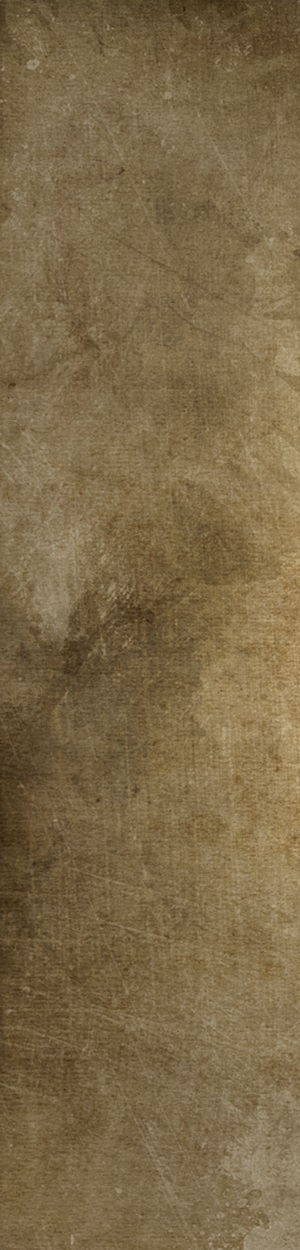
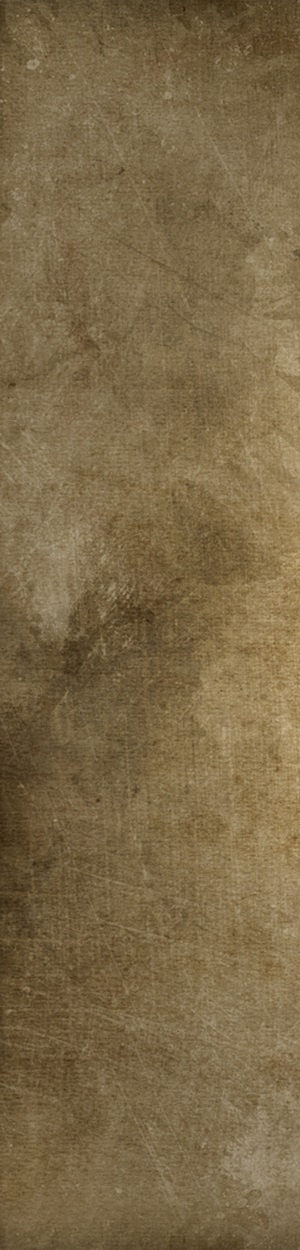
parchment

Changed region(s): [[0.06, 0.9672, 1.0, 1.0], [0.0, 0.9672, 0.03, 0.9984]]

diff --git a/css/styles.css b/css/styles.css
@@ -27,7 +27,7 @@ form table tr td {
 
 .parchment, .parchment-floral {
 	background-color: white;
-	background-image: url('../img/parchment-kjpargeter-freepik-narrow.jpg?v=1');
+	background-image: url('../img/parchment-kjpargeter-freepik-narrow.jpg?v=4');
 	background-position: left top;
 	background-size: 100% auto;
 	background-repeat: repeat;
